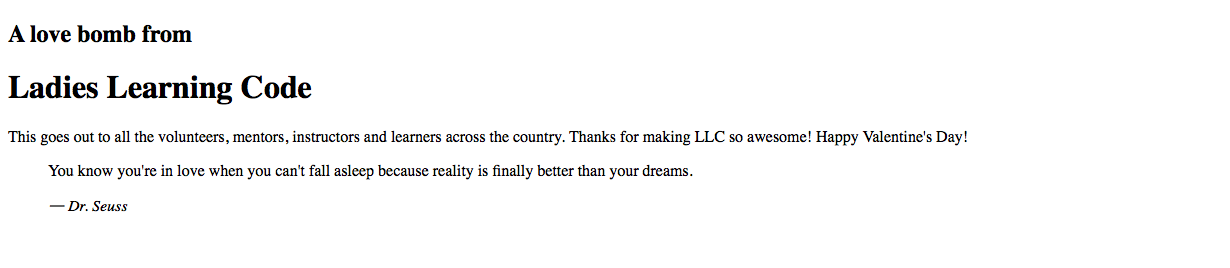
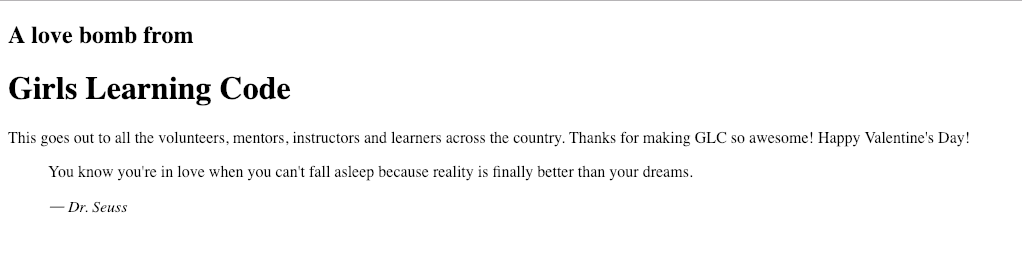
Rebranded for GLC

diff --git a/framework/css/styles.css b/framework/css/styles.css
@@ -1,3 +1,3 @@
-*,*:before,*:after{box-sizing:border-box}html{font-size:62.5%}@media (min-width: 1401px){html{font-size:70%}}body{padding:0;margin:0;font-size:3.2rem;line-height:1.4;font-family:"Montserrat",sans-serif;color:#444;border-top:4px solid #b109aa;-webkit-font-smoothing:antialiased;background:#ecf0f1}h1{font-family:"Quicksand",sans-serif;letter-spacing:-0.05em;text-transform:uppercase;margin:0 0 25px;color:#b109aa;font-size:4rem}.title h1{font-size:7.5rem;font-weight:400}h1 code{font-size:inherit;color:inherit;font-family:inherit;background:transparent}h2{font-size:3.2rem;margin:0}h2+p,h2+ul,h2+ol{margin-top:6px}h3,h4{margin:32px 0 10px}h3+p,h3+pre,h4+p,h4+pre{margin-top:4px}a{outline:none;color:inherit}a:hover{color:#b109aa;text-decoration:none}hr{border:none;border-top:1px solid #bdc3c7;clear:both;margin:30px 0 0;display:inline-block;width:100%}hr+p{margin-top:16px}p{margin-bottom:0}p+h2{margin-top:30px}p+ol,p+ul{margin-top:10px}.cursive{font-family:"Pacifico",cursive;color:#b109aa}ul{padding:0}ul li{margin-bottom:6px;margin-left:24px;list-style-type:none}ul li:before{content:"\203A";font-family:"Quicksand",sans-serif;font-weight:bold;margin-left:-19px;padding-right:10px}ul ol,ul ul,.list-sm ul,ol ol,ol ul,.list-sm ol{margin-top:6px;font-size:2.88rem}.nested-list ul{margin-left:-22px}.nested-list ul li:before{content:"";margin-left:-9px}.nested-list ul ol,.nested-list ul ul{width:90%;margin-bottom:25px}.nested-list ul ol li:before,.nested-list ul ul li:before{content:"\203A";margin-left:4px}.nested-list .resources+ul>li{margin-left:35px}.nested-list .resources+ul>li:before{content:"\203A"}.two-col-list>ul,.two-col-list>ol{overflow:hidden}.two-col-list>ul>li,.two-col-list>ol>li{width:45%;float:left;margin-left:4px}.two-col-list>ul>li:first-child,.two-col-list>ol>li:first-child{margin-right:5%}.two-col-list>ul>li:before,.two-col-list>ol>li:before{content:"";margin-left:-12px}.two-col-list>.resources+ul>li{width:100%;margin-left:12px}.two-col-list>.resources+ul>li:before{content:"\203A"}strong{font-weight:700;color:black}table{border-spacing:0;border-collapse:collapse}table pre{margin:0}table code{background:transparent}table .hljs{border:none;background:transparent}table img{width:100%}th,td{border:1px solid #bdc3c7;padding:10px}th{text-align:left;font-weight:normal}.two-col-table td{width:50%}.note,.small-type .note,.resources,.resources+*{line-height:1.3;font-size:2.4rem !important}.note code,.small-type .note code,.resources code,.resources+* code{font-size:inherit}.resources,.resources+*{margin-top:2px}.resources{margin-bottom:5px}.resources+ul li{margin-bottom:0}.left{float:left}.left+ul{padding-left:10px}img.left,iframe.left{margin-right:30px}.right{float:right}.centered{text-align:center}.centered-media img,.centered-media iframe{margin:0 auto;display:block}.highlight em,a.highlight{color:#b109aa;font-size:106%;padding-right:2px}.small-type p,.small-type ul,.small-type ol{font-size:2.88rem;line-height:1.3}[class^="col-"],[class*="col-"]{float:left;margin-right:2%}[class^="col-"]:last-child,[class*="col-"]:last-child{margin-right:0}.col-2{width:48%}.col-3{width:32%}.col-narrow{width:38%}.col-wide{width:60%}.slide{padding:45px 64px;background-size:cover;height:100%;width:100%;max-width:1400px;margin:0 auto}.slide:after{content:" ";display:block;height:200px}.slide img{max-width:100%}.slide.centered{text-align:center}.slide.centered img{width:60%}.slide .logo{width:350px}.slide .logo-stacked{width:150px}#indicator{top:15px;right:20px;font-size:20px;text-shadow:none;color:#b109aa;background:white;padding:2px 8px}.side-by-side img{width:49%;display:inline-block;vertical-align:top}.slide.title{-webkit-transform-style:preserve-3d;transform-style:preserve-3d;padding-left:8%;padding-right:8%;background:#222}.slide.title h1,.slide.title h2{position:relative;text-align:center;top:40%;-webkit-transform:translateY(-40%);-ms-transform:translateY(-40%);transform:translateY(-40%)}.slide.title h1{margin-bottom:0px;line-height:1.1}.slide.title h2{color:#fff;letter-spacing:0.05rem;font-size:4rem;font-family:"Quicksand",sans-serif;text-transform:uppercase}#timer{height:4px;line-height:4px;background:#000}#timer:before{content:""}.edit{float:left;background:#FFEFD5;border-right:1px solid #ffc86f;border-bottom:1px solid #ffc86f;font-size:11px;padding:6px 14px;position:relative;bottom:-20px;left:1px;margin-bottom:-25px;text-transform:uppercase;font-weight:bold}textarea.snippet{width:100%;border:1px solid #222;padding:35px 12px 12px;margin:15px 0;font-size:20px !important;font-family:Andale Mono, Monaco, monospace;line-height:1.4}textarea.snippet+.example{margin-top:0}.example,blockquote{font-size:2.88rem;margin:15px 0}.example p,blockquote p{margin:10px}.example{border:1px solid #bdc3c7;padding:5px 10px}blockquote{background:#fff;border:3px solid rgba(177,9,170,0.2)}.delayed.displayed,.delayed-children>.displayed{opacity:1}.heading-bg span{background:rgba(177,9,170,0.8);border-radius:5px;padding:0 10px 0 6px;-webkit-box-decoration-break:clone;box-decoration-break:clone}.heading-bg span.light{background:rgba(255,255,255,0.6)}.heading-bg span.dark,.heading-bg span.light{color:#222}.welcome.slide{padding:0}.welcome .logo-stacked{margin-right:50px}.welcome h1,.welcome .instructions{padding:30px 64px}.welcome .instructions p{margin:0;line-height:1.32}.welcome h1{background:#111;line-height:1;margin:0;font-size:55px}.welcome h2{float:left;color:black;width:21%;font-family:"Quicksand",sans-serif;color:#b109aa;text-transform:uppercase;font-size:30px}.welcome ol,.welcome ul{float:left;width:79%;margin:0}.welcome ol ul,.welcome ol ol,.welcome ul ul,.welcome ul ol{float:none;width:100%}.welcome ol.connected li:before,.welcome ul.connected li:before{content:""}.welcome ol.downloads>li,.welcome ul.downloads>li{margin-bottom:15px}.slide.intro h1,.slide.intro h2,.slide.last h1,.slide.last h2{font-weight:400}.slide.intro h1,.slide.last h1{font-size:7.5rem}.slide.intro h2,.slide.last h2{font-size:4rem}.slide.intro .instructor,.slide.last .instructor{border-radius:50%;max-width:225px;float:left;margin-right:30px}.slide.intro .cursive,.slide.last .cursive{margin-left:-5px}.slide.intro ul li,.slide.last ul li{margin:0}.slide.intro ul li:before,.slide.last ul li:before{content:""}.slide.intro:after{height:0px}.slide.intro h1,.slide.intro h2{color:#fff}.slide.intro h1{margin-bottom:10px}.slide.intro a{color:white}.slide.intro footer a{color:#b109aa}.slide.last .heading-bg{font-family:"Quicksand",sans-serif;text-transform:uppercase;color:white;margin-bottom:20px}.slide.last .attribution{position:absolute;bottom:15px;font-size:1.6rem}.sponsor{position:absolute;bottom:45px;right:40px;text-align:right;font-size:20px;color:white}.sponsor img{width:300px;margin-right:-9px}footer{position:fixed;bottom:0;width:100%;background:white;font-size:1.6rem}footer p{margin:6px 10px 0 8px}footer .arrow{color:#b109aa}footer img{margin-bottom:-5px}.slide.intro footer{margin:0 -64px}.table-of-contents{font-size:2.88rem}.table-of-contents li{margin-bottom:0}.table-of-contents a{color:#222}.table-of-contents a:hover{color:#b109aa}pre{margin:12px 0;white-space:pre-wrap}pre code{overflow-y:auto;font-size:2.4rem}pre+pre{margin-top:15px}pre+h2{margin-top:25px}pre+hr{margin-top:35px}code{color:#555;padding:0 8px;display:inline-block;background:white;font-size:3.52rem;border-radius:4px;position:relative;top:-2px}@-moz-document url-prefix(){code{font-size:3rem}}.highlighted-tags strong{background:#ddd;padding:5px;color:black;display:inline-block;font-weight:bold}.highlighted-tags strong [class^="hljs-"]{color:black;font-weight:bold}.hljs{padding:12px;border-radius:2px;border:1px solid #bdc3c7;word-wrap:break-word}.hljs-doctype,.hljs-comment{color:#990}.php .hljs-preprocessor{color:green}.presenter-notes{bottom:0;width:100%;background:rgba(255,255,255,0.9);font-size:18px;margin:0;max-height:inherit}.presenter-notes p{margin-top:0}.slide.intro{background:-webkit-linear-gradient(rgba(0,0,0,0.7), rgba(0,0,0,0.7)),url(../img/banner-home3.jpg) no-repeat;background:linear-gradient(rgba(0,0,0,0.7), rgba(0,0,0,0.7)),url(../img/banner-home3.jpg) no-repeat;background-size:cover}.slide.intro h1{font-size:65px}.heart-pulse{color:#B109AA;display:inline-block;-webkit-animation:pulse 2s infinite;animation:pulse 2s infinite}.heart-falling{position:absolute;color:red;opacity:.5;font-size:22px;-webkit-animation:falling 6s infinite linear;animation:falling 6s infinite linear}.heart-falling:nth-of-type(1){bottom:1200px;left:8%}.heart-falling:nth-of-type(2){bottom:500px;left:15%}.heart-falling:nth-of-type(3){bottom:1000px;left:50%}.heart-falling:nth-of-type(4){bottom:475px;left:90%}.heart-falling:nth-of-type(5){bottom:600px;left:40%}.heart-falling:nth-of-type(6){bottom:1200px;left:60%}@-webkit-keyframes pulse{0%{-webkit-transform:scale(0.5);transform:scale(0.5)}50%{-webkit-transform:scale(2);transform:scale(2)}100%{-webkit-transform:scale(0.5);transform:scale(0.5)}}@keyframes pulse{0%{-webkit-transform:scale(0.5);transform:scale(0.5)}50%{-webkit-transform:scale(2);transform:scale(2)}100%{-webkit-transform:scale(0.5);transform:scale(0.5)}}@-webkit-keyframes falling{0%{-webkit-transform:rotate(360deg);transform:rotate(360deg)}50%{-webkit-transform:rotate(0deg);transform:rotate(0deg)}100%{bottom:-25px;-webkit-transform:rotate(-360deg);transform:rotate(-360deg)}}@keyframes falling{0%{-webkit-transform:rotate(360deg);transform:rotate(360deg)}50%{-webkit-transform:rotate(0deg);transform:rotate(0deg)}100%{bottom:-25px;-webkit-transform:rotate(-360deg);transform:rotate(-360deg)}}
+*,*:before,*:after{box-sizing:border-box}html{font-size:62.5%}@media (min-width: 1401px){html{font-size:70%}}body{padding:0;margin:0;font-size:3.2rem;line-height:1.4;font-family:"Montserrat",sans-serif;color:#444;border-top:4px solid #8b31e0;-webkit-font-smoothing:antialiased;background:#ecf0f1}h1{font-family:"Quicksand",sans-serif;letter-spacing:-0.05em;text-transform:uppercase;margin:0 0 25px;color:#8b31e0;font-size:4rem}.title h1{font-size:7.5rem;font-weight:400}h1 code{font-size:inherit;color:inherit;font-family:inherit;background:transparent}h2{font-size:3.2rem;margin:0}h2+p,h2+ul,h2+ol{margin-top:6px}h3,h4{margin:32px 0 10px}h3+p,h3+pre,h4+p,h4+pre{margin-top:4px}a{outline:none;color:inherit}a:hover{color:#8b31e0;text-decoration:none}hr{border:none;border-top:1px solid #bdc3c7;clear:both;margin:30px 0 0;display:inline-block;width:100%}hr+p{margin-top:16px}p{margin-bottom:0}p+h2{margin-top:30px}p+ol,p+ul{margin-top:10px}.cursive{font-family:"Pacifico",cursive;color:#8b31e0}ul{padding:0}ul li{margin-bottom:6px;margin-left:24px;list-style-type:none}ul li:before{content:"\203A";font-family:"Quicksand",sans-serif;font-weight:bold;margin-left:-19px;padding-right:10px}ul ol,ul ul,.list-sm ul,ol ol,ol ul,.list-sm ol{margin-top:6px;font-size:2.88rem}.nested-list ul{margin-left:-22px}.nested-list ul li:before{content:"";margin-left:-9px}.nested-list ul ol,.nested-list ul ul{width:90%;margin-bottom:25px}.nested-list ul ol li:before,.nested-list ul ul li:before{content:"\203A";margin-left:4px}.nested-list .resources+ul>li{margin-left:35px}.nested-list .resources+ul>li:before{content:"\203A"}.two-col-list>ul,.two-col-list>ol{overflow:hidden}.two-col-list>ul>li,.two-col-list>ol>li{width:45%;float:left;margin-left:4px}.two-col-list>ul>li:first-child,.two-col-list>ol>li:first-child{margin-right:5%}.two-col-list>ul>li:before,.two-col-list>ol>li:before{content:"";margin-left:-12px}.two-col-list>.resources+ul>li{width:100%;margin-left:12px}.two-col-list>.resources+ul>li:before{content:"\203A"}strong{font-weight:700;color:black}table{border-spacing:0;border-collapse:collapse}table pre{margin:0}table code{background:transparent}table .hljs{border:none;background:transparent}table img{width:100%}th,td{border:1px solid #bdc3c7;padding:10px}th{text-align:left;font-weight:normal}.two-col-table td{width:50%}.note,.small-type .note,.resources,.resources+*{line-height:1.3;font-size:2.4rem !important}.note code,.small-type .note code,.resources code,.resources+* code{font-size:inherit}.resources,.resources+*{margin-top:2px}.resources{margin-bottom:5px}.resources+ul li{margin-bottom:0}.left{float:left}.left+ul{padding-left:10px}img.left,iframe.left{margin-right:30px}.right{float:right}.centered{text-align:center}.centered-media img,.centered-media iframe{margin:0 auto;display:block}.highlight em,a.highlight{color:#8b31e0;font-size:106%;padding-right:2px}.small-type p,.small-type ul,.small-type ol{font-size:2.88rem;line-height:1.3}[class^="col-"],[class*="col-"]{float:left;margin-right:2%}[class^="col-"]:last-child,[class*="col-"]:last-child{margin-right:0}.col-2{width:48%}.col-3{width:32%}.col-narrow{width:38%}.col-wide{width:60%}.slide{padding:45px 64px;background-size:cover;height:100%;width:100%;max-width:1400px;margin:0 auto}.slide:after{content:" ";display:block;height:200px}.slide img{max-width:100%}.slide.centered{text-align:center}.slide.centered img{width:60%}.slide .logo{width:350px}.slide .logo-stacked{width:150px}#indicator{top:15px;right:20px;font-size:20px;text-shadow:none;color:#8b31e0;background:white;padding:2px 8px}.side-by-side img{width:49%;display:inline-block;vertical-align:top}.slide.title{-webkit-transform-style:preserve-3d;transform-style:preserve-3d;padding-left:8%;padding-right:8%;background:#222}.slide.title h1,.slide.title h2{position:relative;text-align:center;top:40%;-webkit-transform:translateY(-40%);-ms-transform:translateY(-40%);transform:translateY(-40%)}.slide.title h1{margin-bottom:0px;line-height:1.1}.slide.title h2{color:#fff;letter-spacing:0.05rem;font-size:4rem;font-family:"Quicksand",sans-serif;text-transform:uppercase}#timer{height:4px;line-height:4px;background:#000}#timer:before{content:""}.edit{float:left;background:#FFEFD5;border-right:1px solid #ffc86f;border-bottom:1px solid #ffc86f;font-size:11px;padding:6px 14px;position:relative;bottom:-20px;left:1px;margin-bottom:-25px;text-transform:uppercase;font-weight:bold}textarea.snippet{width:100%;border:1px solid #222;padding:35px 12px 12px;margin:15px 0;font-size:20px !important;font-family:Andale Mono, Monaco, monospace;line-height:1.4}textarea.snippet+.example{margin-top:0}.example,blockquote{font-size:2.88rem;margin:15px 0}.example p,blockquote p{margin:10px}.example{border:1px solid #bdc3c7;padding:5px 10px}blockquote{background:#fff;border:3px solid rgba(177,9,170,0.2)}.delayed.displayed,.delayed-children>.displayed{opacity:1}.heading-bg span{background:rgba(139,49,224,0.8);border-radius:5px;padding:0 10px 0 6px;-webkit-box-decoration-break:clone;box-decoration-break:clone}.heading-bg span.light{background:rgba(255,255,255,0.6)}.heading-bg span.dark,.heading-bg span.light{color:#222}.welcome.slide{padding:0}.welcome .logo-stacked{margin-right:50px}.welcome h1,.welcome .instructions{padding:30px 64px}.welcome .instructions p{margin:0;line-height:1.32}.welcome h1{background:#111;line-height:1;margin:0;font-size:55px}.welcome h2{float:left;color:black;width:21%;font-family:"Quicksand",sans-serif;color:#8b31e0;text-transform:uppercase;font-size:30px}.welcome ol,.welcome ul{float:left;width:79%;margin:0}.welcome ol ul,.welcome ol ol,.welcome ul ul,.welcome ul ol{float:none;width:100%}.welcome ol.connected li:before,.welcome ul.connected li:before{content:""}.welcome ol.downloads>li,.welcome ul.downloads>li{margin-bottom:15px}.slide.intro h1,.slide.intro h2,.slide.last h1,.slide.last h2{font-weight:400}.slide.intro h1,.slide.last h1{font-size:7.5rem}.slide.intro h2,.slide.last h2{font-size:4rem}.slide.intro .instructor,.slide.last .instructor{border-radius:50%;max-width:225px;float:left;margin-right:30px}.slide.intro .cursive,.slide.last .cursive{margin-left:-5px}.slide.intro ul li,.slide.last ul li{margin:0}.slide.intro ul li:before,.slide.last ul li:before{content:""}.slide.intro:after{height:0px}.slide.intro h1,.slide.intro h2{color:#fff}.slide.intro h1{margin-bottom:10px}.slide.intro a{color:white}.slide.intro footer a{color:#8b31e0}.slide.last .heading-bg{font-family:"Quicksand",sans-serif;text-transform:uppercase;color:white;margin-bottom:20px}.slide.last .attribution{position:absolute;bottom:15px;font-size:1.6rem}.sponsor{position:absolute;bottom:45px;right:40px;text-align:right;font-size:20px;color:white}.sponsor img{width:300px;margin-right:-9px}footer{position:fixed;bottom:0;width:100%;background:white;font-size:1.6rem}footer p{margin:6px 10px 0 8px}footer .arrow{color:#8b31e0}footer img{margin-bottom:-5px}.slide.intro footer{margin:0 -64px}.table-of-contents{font-size:2.88rem}.table-of-contents li{margin-bottom:0}.table-of-contents a{color:#222}.table-of-contents a:hover{color:#8b31e0}pre{margin:12px 0;white-space:pre-wrap}pre code{overflow-y:auto;font-size:2.4rem}pre+pre{margin-top:15px}pre+h2{margin-top:25px}pre+hr{margin-top:35px}code{color:#555;padding:0 8px;display:inline-block;background:white;font-size:3.52rem;border-radius:4px;position:relative;top:-2px}@-moz-document url-prefix(){code{font-size:3rem}}.highlighted-tags strong{background:#ddd;padding:5px;color:black;display:inline-block;font-weight:bold}.highlighted-tags strong [class^="hljs-"]{color:black;font-weight:bold}.hljs{padding:12px;border-radius:2px;border:1px solid #bdc3c7;word-wrap:break-word}.hljs-doctype,.hljs-comment{color:#990}.php .hljs-preprocessor{color:green}.presenter-notes{bottom:0;width:100%;background:rgba(255,255,255,0.9);font-size:18px;margin:0;max-height:inherit}.presenter-notes p{margin-top:0}.slide.intro{background:-webkit-linear-gradient(rgba(0,0,0,0.7), rgba(0,0,0,0.7)),url(../img/banner-home3.jpg) no-repeat;background:linear-gradient(rgba(0,0,0,0.7), rgba(0,0,0,0.7)),url(../img/banner-home3.jpg) no-repeat;background-size:cover}.slide.intro h1{font-size:65px}.heart-pulse{color:#8b31e0;display:inline-block;-webkit-animation:pulse 2s infinite;animation:pulse 2s infinite}.heart-falling{position:absolute;color:red;opacity:.5;font-size:22px;-webkit-animation:falling 6s infinite linear;animation:falling 6s infinite linear}.heart-falling:nth-of-type(1){bottom:1200px;left:8%}.heart-falling:nth-of-type(2){bottom:500px;left:15%}.heart-falling:nth-of-type(3){bottom:1000px;left:50%}.heart-falling:nth-of-type(4){bottom:475px;left:90%}.heart-falling:nth-of-type(5){bottom:600px;left:40%}.heart-falling:nth-of-type(6){bottom:1200px;left:60%}@-webkit-keyframes pulse{0%{-webkit-transform:scale(0.5);transform:scale(0.5)}50%{-webkit-transform:scale(2);transform:scale(2)}100%{-webkit-transform:scale(0.5);transform:scale(0.5)}}@keyframes pulse{0%{-webkit-transform:scale(0.5);transform:scale(0.5)}50%{-webkit-transform:scale(2);transform:scale(2)}100%{-webkit-transform:scale(0.5);transform:scale(0.5)}}@-webkit-keyframes falling{0%{-webkit-transform:rotate(360deg);transform:rotate(360deg)}50%{-webkit-transform:rotate(0deg);transform:rotate(0deg)}100%{bottom:-25px;-webkit-transform:rotate(-360deg);transform:rotate(-360deg)}}@keyframes falling{0%{-webkit-transform:rotate(360deg);transform:rotate(360deg)}50%{-webkit-transform:rotate(0deg);transform:rotate(0deg)}100%{bottom:-25px;-webkit-transform:rotate(-360deg);transform:rotate(-360deg)}}
 
 /*# sourceMappingURL=styles.css.map */

diff --git a/slides.html b/slides.html
@@ -21,18 +21,17 @@
 <body class="en" data-duration="360">
   <main>
     <section class="slide welcome highlight">
-      <h1><img class="logo-stacked" src="framework/img/llc-logo-stacked-white.png" alt="Ladies Learning Code logo">Welcome!</h1>
+      <h1><img class="logo-stacked" src="framework/img/glc-logo-stacked-white.png" alt="Ladies Learning Code logo">Welcome!</h1>
 
       <div class="instructions">
         <!-- ADD WIFI INFO HERE -->
-        <h2>Get Connected</h2>
-        <p><strong>Wifi:</strong> wifi network</p>
-        <p><strong>Password:</strong> wifi password</p>
+        <h2>Get<br> Connected</h2>
+        <p><strong>Wifi:</strong> @Memorial-Guest</p>
         <hr>
 
         <h2>Download<br> & Install</h2>
         <ol class="downloads">
-          <li>Learner files (zip file): <a href="https://github.com/ladieslearningcode/llc-html-css-valentines/archive/master.zip">http://bit.ly/llc-valentines</a>
+          <li>Learner files (zip file): <a href="https://github.com/lesleychard/llc-html-css-valentines/archive/master.zip">https://bit.ly/2UJNBBe</a>
             <ul>
               <li>unzip the learner file (<em>extract all</em> if you’re on a PC)</li>
               <li>open <em>slides.html</em> in the browser to view the slides</li>
@@ -55,20 +54,17 @@
     </section>
 
     <section class="slide intro">
-      <img class="logo" src="framework/img/llc-logo-white.png" alt="Ladies Learning Code logo">
+      <img class="logo" src="framework/img/glc-logo-white.png" alt="Girls Learning Code logo">
       <h1 class="heading-bg">
         <span>Intro to HTML & CSS Animations:<br>
         Valentine's Day Edition</span>
       </h1>
 
-      <!-- FILL IN INSTRUCTOR DETAILS -->
-      <!-- <img class="instructor" src="http://placehold.it/225x225" alt="Instructor Name">
-      <h2><span class="cursive">with</span> Instructor name</h2>
+      <img class="instructor" src="framework/img/lesleychard.jpg" alt="Lesley Chard">
+      <h2><span class="cursive">with</span> Lesley Chard</h2>
       <ul>
-        <li><a href="mailto:">hello@email.com</a></li>
-        <li><a href="http://website.com">website.com</a></li>
-        <li><a href="http://twitter.com/">@twitter</a></li>
-      </ul> -->
+        <li><a href="mailto:lesleychard@canadalearningcode.ca">lesleychard@canadalearningcode.ca</a></li>
+      </ul>
 
       <div class="sponsor">
       <!--p>In partnership with<br> <img src="framework/img/telus-logo-white.svg" alt="Telus"></p-->
@@ -80,24 +76,44 @@
       </footer>
     </section>
 
-    <section class="slide" data-markdown data-toc>
+    <section class="slide centered" data-markdown data-toc>
       <script type="text/template">
-        #Coders' code
+        ![Coders Code Banner](framework/img/workshop/scroll.png)
 
-        1. Be friendly and welcoming
-        1. Be respectful of others by choosing words and actions with care
-        1. Be mindful of how much space you take up in conversations
-        1. Ask questions
-        1. Try your best (and have fun!)
+        ## 1. ASK FOR HELP
+        ## 2. BE PRESENT
+        ## 3. TRY YOUR BEST!
 
+      </script>
+    </section>
+
+    <section class="slide" data-markdown>
+      <script type= "text/template">
+        #Code is..
+        ## A SET OF INSTRUCTIONS THAT TELLS THE COMPUTER WHAT TO DO.
+  
+        <br>
+        ![Running robot gif](framework/img/workshop/runningrobot.gif)
+        ![Dancing robot gif](framework/img/workshop/dancingrobot.gif)
+        ![eating robot gif](framework/img/workshop/eatingrobot.gif)
+        ![Dancing robot gif](framework/img/workshop/dancingrobot2.gif)
+        ![Dancing robot gif](framework/img/workshop/bluerobot.gif)
+        ![Dancing robot gif](framework/img/workshop/partyrobot.gif)
+  
+        <p> In code, we call a set of instructions an <strong style="color:#8b31e0;">algorithm</strong>.</p><!-- .element: class="delayed" -->
+  
       </script>
     </section>
 
     <section class="slide centered">
       <h1>Today's Project</h1>
 
-      <p data-height="625" data-theme-id="0" data-slug-hash="KwyGgY" data-default-tab="result" data-user="learningcode" class='codepen'>See the Pen <a href='http://codepen.io/learningcode/pen/KwyGgY/'>KwyGgY</a> by Ladies Learning Code (<a href='http://codepen.io/learningcode'>@learningcode</a>) on <a href='http://codepen.io'>CodePen</a>.</p>
-      <script async src="http://assets.codepen.io/assets/embed/ei.js"></script>
+        <p class="codepen" data-height="625" data-theme-id="dark" data-default-tab="result" data-user="lesleychard_llc" data-slug-hash="vbWGKQ" style="height: 265px; box-sizing: border-box; display: flex; align-items: center; justify-content: center; border: 2px solid black; margin: 1em 0; padding: 1em;" data-pen-title="Valentine&amp;apos;s Love Bomb">
+          <span>See the Pen <a href="https://codepen.io/lesleychard_llc/pen/vbWGKQ/">
+          Valentine&apos;s Love Bomb</a> by Lesley (<a href="https://codepen.io/lesleychard_llc">@lesleychard_llc</a>)
+          on <a href="https://codepen.io">CodePen</a>.</span>
+        </p>
+        <script async src="https://static.codepen.io/assets/embed/ei.js"></script>
     </section>
 
     <section class="slide" data-markdown>
@@ -462,7 +478,7 @@
         1. Select **Use** to get the code.
         1. Select font weights.
           * The more you choose, the more it will slow down page load time.
-          * The LLC project uses Sacramento, regular and Lato light 300.
+          * The GLC project uses Sacramento, regular and Lato light 300.
           * The default character set should contain what you need.
       </script>
     </section>
@@ -644,7 +660,7 @@ color: #222222;</textarea>
         <span>&hearts;</span>
         ```
         ```xml
-        <p>This goes out to all the volunteers, mentors, instructors and learners across the country. Thanks for making LLC so awesome! Happy Valentine's Day! <span>&hearts;</span></p>
+        <p>This goes out to all the volunteers, mentors, instructors and learners across the country. Thanks for making GLC so awesome! Happy Valentine's Day! <span>&hearts;</span></p>
         ```
 
         Though these may look like images, they are actually text that you can apply typography properties to using CSS, like changing the colour or size.
@@ -668,7 +684,7 @@ color: #222222;</textarea>
 
         ```xml
         <span>&hearts;</span>
-        <p>This goes out to all the volunteers, mentors, instructors and learners across the country. Thanks for making LLC so awesome! Happy Valentine's Day! <span class="heart-pulse">&hearts;</span></p>
+        <p>This goes out to all the volunteers, mentors, instructors and learners across the country. Thanks for making GLC so awesome! Happy Valentine's Day! <span class="heart-pulse">&hearts;</span></p>
         ```
       </script>
     </section>
@@ -680,14 +696,14 @@ color: #222222;</textarea>
         Add the class of `.heart-pulse` to the heart icon.
 
         ```xml
-        <p>This goes out to all the volunteers, mentors, instructors and learners across the country. Thanks for making LLC so awesome! Happy Valentine's Day! <span class="heart-pulse">&hearts;</span></p>
+        <p>This goes out to all the volunteers, mentors, instructors and learners across the country. Thanks for making GLC so awesome! Happy Valentine's Day! <span class="heart-pulse">&hearts;</span></p>
         ```
 
         In the CSS, try changing the color.
 
         ```
         .heart-pulse {
-          color: #B109AA; /* LLC purple */
+          color: #8b31e0; /* GLC purple */
         }
         ```
         Now let's animate it, to make it look like it's pulsing!
@@ -1025,7 +1041,7 @@ color: #222222;</textarea>
       <script type="text/template">
         #Hackathon!
 
-        There's so much more you can do! View the Ladies Learning Code version on [CodePen](https://codepen.io/learningcode/pen/KwyGgY) or in your project folders for inspiration, ask your mentors and neighbours, or ask Google!
+        There's so much more you can do! View the Girls Learning Code version on [CodePen](https://codepen.io/lesleychard_llc/pen/vbWGKQ) or in your project folders for inspiration, ask your mentors and neighbours, or ask Google!
 
         Here are some suggestions:
 
@@ -1045,12 +1061,10 @@ color: #222222;</textarea>
         Valentine's Day Edition</span>
       </h2>
 
-      <img class="instructor" src="http://cl.ly/image/0r3Q3H110G36/profile-generic.jpg" alt="instructor name">
-      <h2><span class="cursive">with</span> Instructor Name</h2>
+      <img class="instructor" src="framework/img/lesleychard.jpg" alt="Lesley Chard">
+      <h2><span class="cursive">with</span> Lesley Chard</h2>
       <ul>
-        <li><a href="mailto:">hello@email.com</a></li>
-        <li><a href="#">mywebsite.com</a></li>
-        <li><a href="http://twitter.com/">@twitter</a></li>
+        <li><a href="mailto:lesleychard@canadalearningcode.ca">lesleychard@canadalearningcode.ca</a></li>
       </ul>
 
       <p class="attribution">Slide presentation created by <a href="http://christinatruong.com">Christina Truong</a> based on <a href="https://github.com/LeaVerou/csss">Lea Verou's SlideShow</a> and <a href="http://lab.hakim.se/reveal-js/">reveal.js</a>.</p>

diff --git a/project/final.html b/project/final.html
@@ -3,7 +3,7 @@
 <head>
   <meta charset="UTF-8">
   <!-- <meta name="viewport" content="width=device-width, initial-scale=1"> -->
-  <title>Ladies Learning Code Love Bomb!</title>
+  <title>Girls Learning Code Love Bomb!</title>
   <link href='http://fonts.googleapis.com/css?family=Sacramento|Lato:300' rel='stylesheet' type='text/css'>
   <link rel="stylesheet" href="http://maxcdn.bootstrapcdn.com/font-awesome/4.3.0/css/font-awesome.min.css">
   <link rel="stylesheet" href="final.css">
@@ -13,8 +13,8 @@
   <main>
     <i class="fa fa-bomb"></i>
     <h2>A love bomb from</h2>
-    <h1>Ladies Learning Code</h1>
-    <p>This goes out to all the volunteers, mentors, instructors and learners across the country. Thanks for making LLC so awesome! Happy Valentine's Day! <span class="heart-pulse">&#9829;</span></p>
+    <h1>Girls Learning Code</h1>
+    <p>This goes out to all the volunteers, mentors, instructors and learners across the country. Thanks for making GLC so awesome! Happy Valentine's Day! <span class="heart-pulse">&#9829;</span></p>
     
     <span class="heart-falling">&#9829;</span>
     <span class="heart-falling">&#9829;</span>

diff --git a/project/index.html b/project/index.html
@@ -2,14 +2,14 @@
 <html lang="en">
 <head>
   <meta charset="UTF-8">
-  <title>Ladies Learning Code Love Bomb!</title>
+  <title>Girls Learning Code Love Bomb!</title>
 </head>
 <body>
 
   <main>
     <h2>A love bomb from</h2>
-    <h1>Ladies Learning Code</h1>
-    <p>This goes out to all the volunteers, mentors, instructors and learners across the country. Thanks for making LLC so awesome! Happy Valentine's Day!</p>
+    <h1>Girls Learning Code</h1>
+    <p>This goes out to all the volunteers, mentors, instructors and learners across the country. Thanks for making GLC so awesome! Happy Valentine's Day!</p>
     
     <blockquote>
       <p>You know you're in love when you can't fall asleep because reality is finally better than your dreams.</p>

diff --git a/project/final.css b/project/final.css
@@ -30,7 +30,7 @@ main {
 h1 {
   font-size: 50px;
   margin: 0;
-  color: #B109AA;
+  color: #8b31e0;
   font-family: 'Sacramento', cursive;
   line-height: 1;
 }
@@ -66,11 +66,11 @@ cite {
   right: 50px;
   font-size: 200px;
   opacity: .1;
-  color: #B109AA;
+  color: #8b31e0;
 }
 
 .heart-pulse {
-  color: #B109AA;
+  color: #8b31e0;
   display: inline-block;
   animation: pulse 2s infinite;
 }

diff --git a/project/styles.css b/project/styles.css
@@ -17,5 +17,5 @@ main {
   padding: 50px 40px 60px 40px;
 }
 h1 {
-  color: #B109AA;
+  color: #8b31e0;
 }
